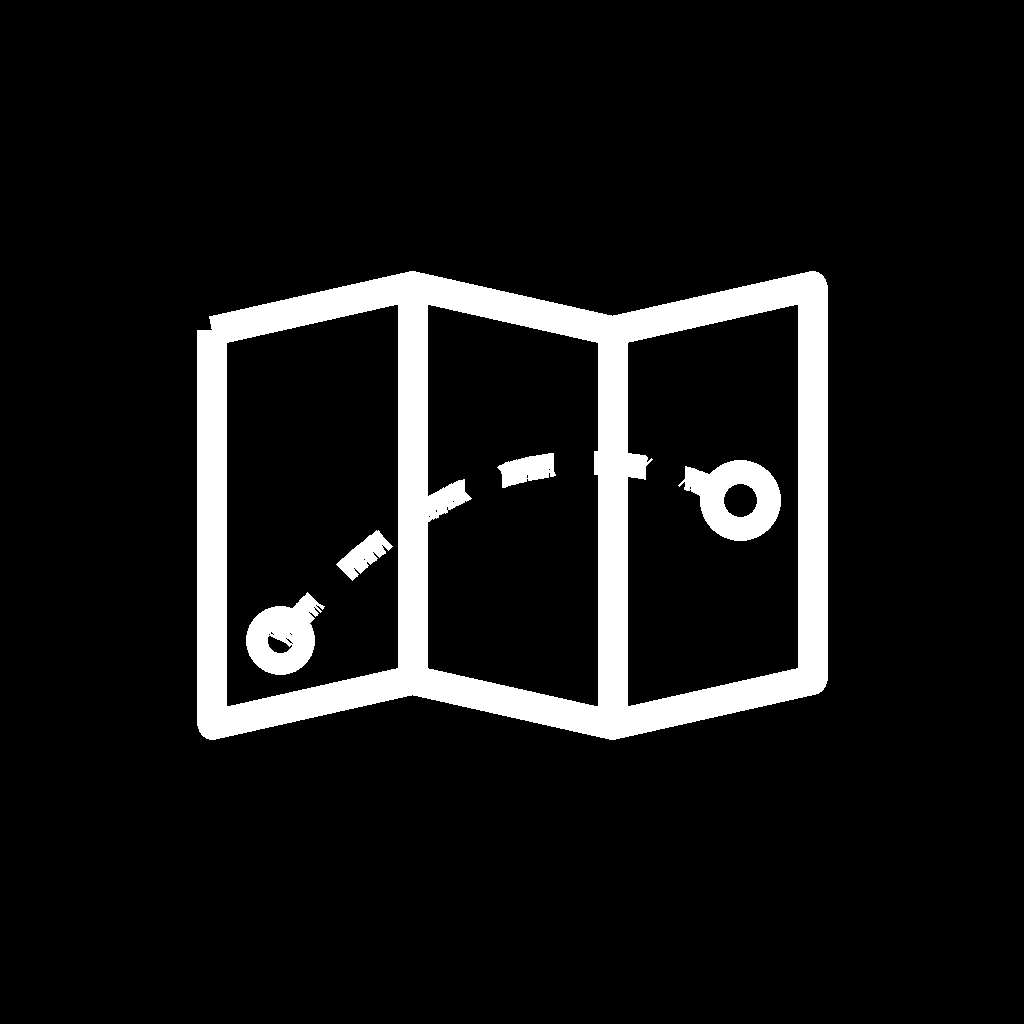
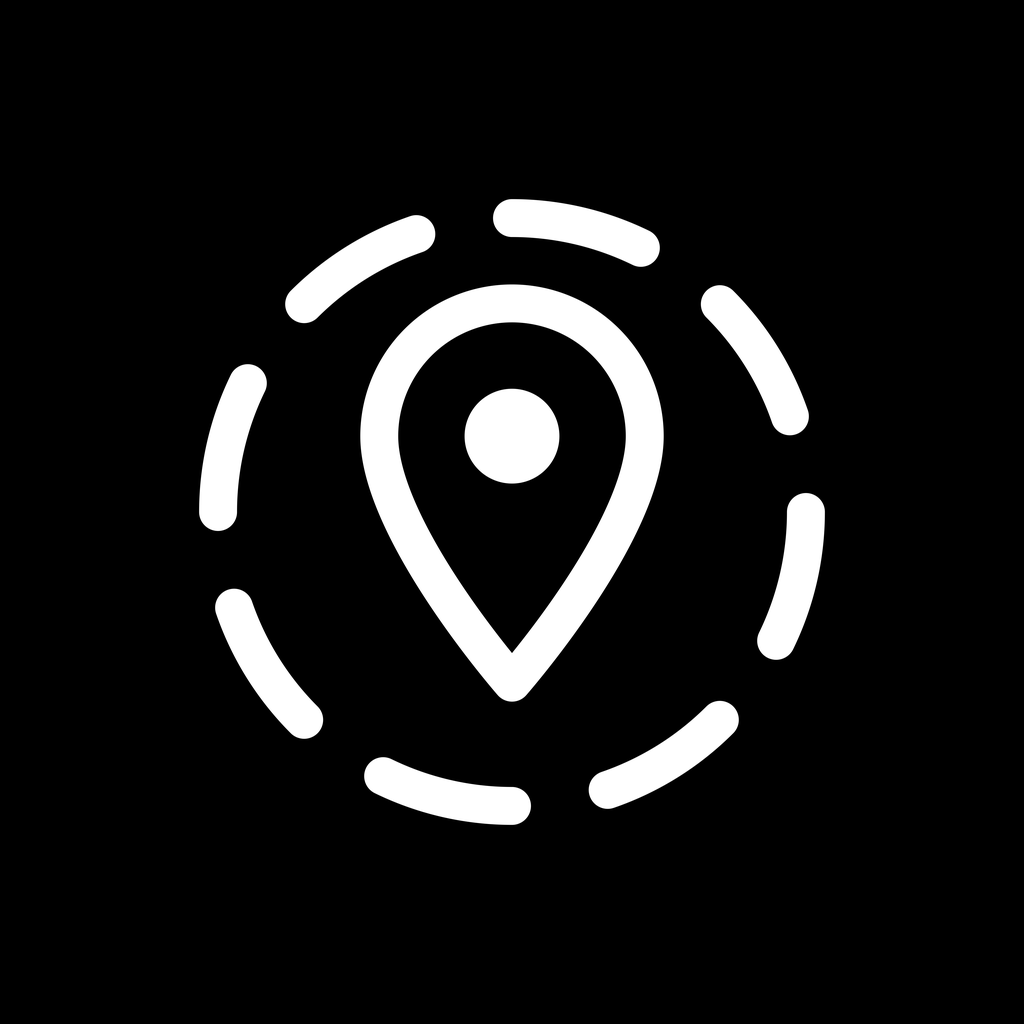
Redraw the launcher mark in the unified Bright* set
FogLight had no mark of its own beyond the first letter of its name. It is now a pin inside a ring of fog that has not cleared yet.

The whole collection now shares one drawing: the same 108 canvas, the
same 18-90 safe zone, the same two stroke weights, white on black and
nothing else. No greys and no colour anywhere, because the Light Phone
III panel is black and white and a mid-tone dithers on it.

Before this, three apps shipped the same waveform, two shipped the same
ball and two shipped the same turn arrow, four drew nothing but the
first letter of their name, and two had no mark at all.

The geometry lives in the icon script in this repo and every file here
is generated from it, so the mark and the script cannot drift apart.

Changed region(s): [[0.1875, 0.1875, 0.8125, 0.8125], [0.3438, 0.7188, 0.5312, 0.8125]]

diff --git a/tools/icon_mark.py b/tools/icon_mark.py
@@ -1,0 +1,181 @@
+#!/usr/bin/env python3
+"""Build FogLight's launcher mark.
+
+Part of the unified Bright* icon set. Every mark in the collection is drawn on
+the same 108x108 adaptive-icon canvas, inside the same 18..90 safe zone, at the
+same two stroke weights, in white on black and nothing else. The Light Phone
+III panel is black and white; a mark with a mid-tone in it dithers.
+
+Edit MARK below and re-run. The vector outputs need nothing but the standard
+library. The raster outputs need Pillow and cairosvg, and are skipped with a
+message if those are missing, because the vectors are what actually ship on
+API 26 and up.
+
+    python3 tools/icon_mark.py
+"""
+
+import os
+import re
+
+ROOT = os.path.dirname(os.path.dirname(os.path.abspath(__file__)))
+
+# ---- the mark ---------------------------------------------------------------
+# Each entry is (path data, stroke width, even-odd fill). A stroke width of 0
+# means the path is filled instead of stroked.
+
+MARK = [
+    ('M54,72 C54,72 68,56 68,46 A14,14 0 1 0 40,46 C40,56 54,72 54,72 Z', 4, False),
+    ('M49.00,46.00 A5.00,5.00 0 1 1 59.00,46.00 A5.00,5.00 0 1 1 49.00,46.00 Z', 0, False),
+    ('M54.00,23.00 A31.00,31.00 0 0 1 67.59,26.14', 4, False),
+    ('M75.92,32.08 A31.00,31.00 0 0 1 83.31,43.91', 4, False),
+    ('M85.00,54.00 A31.00,31.00 0 0 1 81.86,67.59', 4, False),
+    ('M75.92,75.92 A31.00,31.00 0 0 1 64.09,83.31', 4, False),
+    ('M54.00,85.00 A31.00,31.00 0 0 1 40.41,81.86', 4, False),
+    ('M32.08,75.92 A31.00,31.00 0 0 1 24.69,64.09', 4, False),
+    ('M23.00,54.00 A31.00,31.00 0 0 1 26.14,40.41', 4, False),
+    ('M32.08,32.08 A31.00,31.00 0 0 1 43.91,24.69', 4, False),
+]
+
+# Where the mark is written, and at what viewport. 108 is the adaptive-icon
+# canvas; 240 is the LightOS splash mark, which is the only place a LightOS
+# tool can show a mark of its own.
+TARGETS = [
+
+]
+
+# Legacy rasters: (path, pixels, circular mask, inset, transparent plate).
+# Inset shrinks the mark inside the plate - a legacy square icon gets no
+# launcher mask, so it needs the margin the mask would otherwise have given it.
+# A transparent plate is for an adaptive foreground layer, which is composited
+# over the plate rather than carrying one of its own.
+RASTERS = [
+    ('assets/images/icon.png', 1024, False, 1.0, False),
+]
+
+# Files that are the same in every app: the black plate, and the adaptive-icon
+# wrapper that points the launcher at the plate and the mark.
+STATIC = [
+
+]
+
+STROKE = ('        android:fillColor="#00000000"\n'
+          '        android:strokeColor="#FFFFFF"\n'
+          '        android:strokeWidth="%g"\n'
+          '        android:strokeLineCap="round"\n'
+          '        android:strokeLineJoin="round" />')
+
+HEADER = '''<?xml version="1.0" encoding="utf-8"?>
+<!--
+  FogLight launcher mark. One of the unified Bright* set: 108 canvas, 18..90
+  safe zone, white on black, no greys and no colour anywhere.
+
+  Generated by tools/icon_mark.py - edit the geometry there, not here.
+-->
+<vector xmlns:android="http://schemas.android.com/apk/res/android"
+    android:width="%(vp)sdp"
+    android:height="%(vp)sdp"
+    android:viewportWidth="%(vp)s"
+    android:viewportHeight="%(vp)s">
+%(paths)s
+</vector>
+'''
+
+
+def scale_path(d, k):
+    """Multiply every number in a path by k.
+
+    Safe on this data because every path is absolute and uniformly scaled, so
+    arc rx/ry scale with everything else. The large-arc and sweep flags are 0
+    or 1 and a naive pass would scale them into nonsense, so each arc command
+    is matched whole and its three flag fields copied through untouched."""
+    if k == 1.0:
+        return d
+    num = re.compile(r'-?\d*\.?\d+')
+    arc = re.compile(r'A\s*(-?[\d.]+)\s*,?\s*(-?[\d.]+)\s+(-?[\d.]+)\s+([01])\s*,?\s*([01])\s+')
+
+    def one(s):
+        return ('%.3f' % (float(s) * k)).rstrip('0').rstrip('.')
+
+    def plain(s):
+        return num.sub(lambda m: one(m.group(0)), s)
+
+    out, i = [], 0
+    for m in arc.finditer(d):
+        out.append(plain(d[i:m.start()]))
+        out.append('A%s,%s %s %s %s ' % (one(m.group(1)), one(m.group(2)),
+                                         m.group(3), m.group(4), m.group(5)))
+        i = m.end()
+    out.append(plain(d[i:]))
+    return ''.join(out)
+
+
+def render(vp):
+    k = vp / 108.0
+    body = []
+    for d, w, even in MARK:
+        pd = scale_path(d, k)
+        if w == 0:
+            ft = '\n        android:fillType="evenOdd"' if even else ''
+            body.append('    <path\n        android:pathData="%s"\n'
+                        '        android:fillColor="#FFFFFF"%s />' % (pd, ft))
+        else:
+            body.append('    <path\n        android:pathData="%s"\n%s'
+                        % (pd, STROKE % (w * k)))
+    return HEADER % {'vp': vp, 'paths': '\n'.join(body)}
+
+
+def svg(inset=1.0, transparent=False):
+    m = (1 - inset) * 54
+    s = ['<svg xmlns="http://www.w3.org/2000/svg" viewBox="0 0 108 108">']
+    if not transparent:
+        s.append('<rect width="108" height="108" fill="#000000"/>')
+    s += [
+         '<g transform="translate(%.3f,%.3f) scale(%s)">' % (m, m, inset)]
+    for d, w, even in MARK:
+        if w == 0:
+            fr = ' fill-rule="evenodd"' if even else ''
+            s.append('<path d="%s" fill="#FFFFFF"%s/>' % (d, fr))
+        else:
+            s.append('<path d="%s" fill="none" stroke="#FFFFFF" stroke-width="%s" '
+                     'stroke-linecap="round" stroke-linejoin="round"/>' % (d, w))
+    s.append('</g></svg>')
+    return ''.join(s)
+
+
+def write(rel, text):
+    p = os.path.join(ROOT, rel)
+    os.makedirs(os.path.dirname(p), exist_ok=True)
+    open(p, 'w').write(text)
+    print('wrote', rel)
+
+
+def rasters():
+    try:
+        import io
+        import cairosvg
+        from PIL import Image, ImageDraw
+    except ImportError:
+        print('Pillow/cairosvg not installed - skipped the rasters. The adaptive '
+              'icon is what ships on API 26 and up.')
+        return
+    for rel, px, round_, inset, transparent in RASTERS:
+        raw = cairosvg.svg2png(bytestring=svg(inset, transparent).encode(),
+                               output_width=px * 4, output_height=px * 4)
+        im = Image.open(io.BytesIO(raw)).convert('RGBA')
+        if round_:
+            mask = Image.new('L', im.size, 0)
+            ImageDraw.Draw(mask).ellipse([0, 0, im.size[0] - 1, im.size[1] - 1], fill=255)
+            im.putalpha(mask)
+        im = im.resize((px, px), Image.LANCZOS)
+        p = os.path.join(ROOT, rel)
+        os.makedirs(os.path.dirname(p), exist_ok=True)
+        im.save(p, 'WEBP' if rel.endswith('.webp') else 'PNG')
+        print('wrote', rel)
+
+
+if __name__ == '__main__':
+    for rel, vp in TARGETS:
+        write(rel, render(vp))
+    for rel, text in STATIC:
+        write(rel, text)
+    rasters()

diff --git a/README.md b/README.md
@@ -1,3 +1,5 @@
+<img src="assets/images/icon.png" alt="" width="72" align="left" />
+
 # FogLight
 
 A [Fog of World](https://fogofworld.app) companion client for the Light Phone III.
